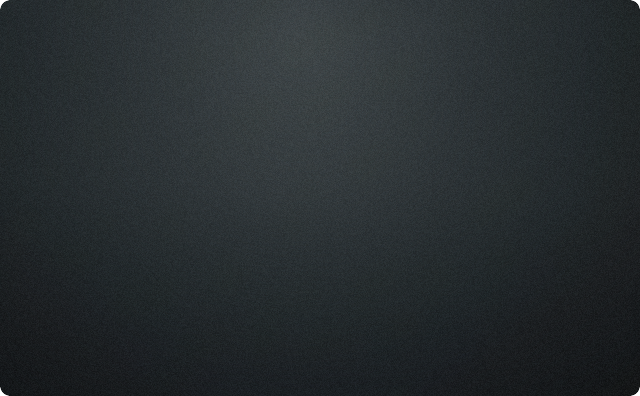
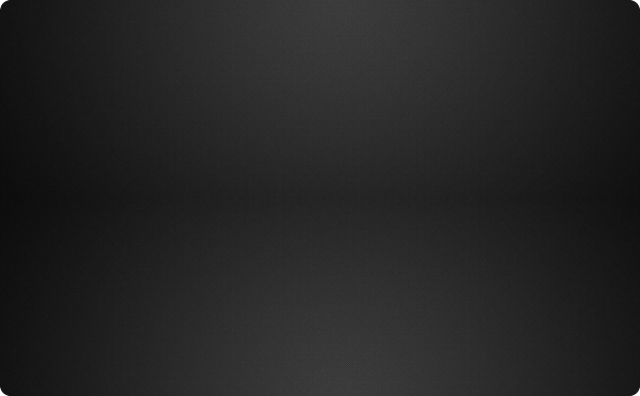
simplayer & rcalendar minor adjustment

diff --git a/simplayer/simplayer.c b/simplayer/simplayer.c
@@ -10,7 +10,7 @@
 #define TOOL_NAME               "Simple Music Player"
 #define TOOL_SHORT_NAME         "simplayer"
 #define TOOL_COMMENT            "Simple but modern currMusic player written in C99 using Raylib - Play MP3 and OGG file"
-#define TOOL_VERSION            "2.8.1"
+#define TOOL_VERSION            "2.8.3"
 
 #include <stdio.h>
 #include <raylib.h>
@@ -34,11 +34,11 @@
 #define screenHeight  396
 
 // some custom colors
-Color accentColor = SKYBLUE; // CLITERAL(Color){18, 211, 255, 255}; 
-Color primaryColor = CLITERAL(Color){253, 255, 255, 255}; 
-Color secondaryColor = CLITERAL(Color){156, 158, 158, 255};
-Color borderColor = CLITERAL(Color){50, 70, 70, 255};
-// Color bgColor = CLITERAL(Color){10, 20, 30, 248};
+const Color accentColor = SKYBLUE; // CLITERAL(Color){18, 211, 255, 255}; 
+const Color primaryColor = CLITERAL(Color){253, 255, 255, 255}; 
+const Color secondaryColor = CLITERAL(Color){156, 158, 158, 255};
+const Color borderColor = CLITERAL(Color){50, 70, 70, 255};
+const Color bgColor = CLITERAL(Color){10, 20, 30, 255};
 
 // faded songs (time in seconds)
 #define FADE_TIME 5.0f // Durata della dissolvenza in secondi
@@ -81,7 +81,7 @@ bool isStop = true;
 bool isPause = false;  
 bool isMute = false;
 bool isVumeter = true; // true:default : show 36 band equalizer , if set false show file library
-float currVolume = 0.80f;            // Default audio currVolume [0.0f..1.0f]
+float currVolume = 0.50f;            // Default audio currVolume [0.0f..1.0f]
 float prevVolume = 0.50f;
 char *currMusicDir;
 bool isVumColored = false; //false:default : start with monocrome vumeter / true: use colored vumeter
@@ -160,7 +160,7 @@ const float timeoutDuration = 2.0f;
 void drawRectangleRounded (int X, int Y, int W, int H, float radius, Color color)  {
 // raylib vuole il "roundness" espresso come frazione rispetto al lato più corto (300)
   Rectangle  rect = { X, Y, W, H};   // toplx, toply, width, height
-  int segments = 24;
+  int segments = 36;
   DrawRectangleRounded ( rect, radius, segments, color );
 }
 
@@ -446,8 +446,8 @@ int main (int argc, char *argv[])
 	SetConfigFlags(FLAG_VSYNC_HINT | FLAG_WINDOW_HIDDEN | FLAG_WINDOW_UNDECORATED | FLAG_WINDOW_ALWAYS_RUN | FLAG_WINDOW_TRANSPARENT ); // | FLAG_MSAA_4X_HINT | FLAG_WINDOW_TOPMOST); 
 	InitWindow(screenWidth, screenHeight, "simplayer");
 	SetExitKey(KEY_Q);       // Disable KEY_ESCAPE to close window, X-button still works
+    SetTargetFPS(120);
 
-	// Set UI style
 	// Custom GUI font loading
 	Font titleFnt = LoadFontEx("fonts/ManropeV5-SemiBold.otf", 36, NULL, 0);
 	Font artistFnt = LoadFontEx("fonts/ManropeV5-Regular.otf", 28, NULL, 0);
@@ -475,7 +475,7 @@ int main (int argc, char *argv[])
 	getMusicFolder();
 	int totalFiles = loadFilesRecursive(currMusicDir, files, 0);
 
-    // 2. Ordina o mescola files nella lista
+    // sort and shuffle music files 
     if (!isShuffle && totalFiles > 0) {
         qsort(files, totalFiles, MAX_NAME, compareFiles); 
     }
@@ -543,7 +543,6 @@ int main (int argc, char *argv[])
     const float transitionDuration = 10.00f; // Durata della transizione: 1.0f = 1 sec
 
 	// fai riapparire finestra dopo averla nascosta durante il carimento iniziale
-    // SetTargetFPS(60);
 	SetWindowSize(screenWidth,screenHeight);
 	SetWindowPosition(GetMonitorWidth(0) / 2 - screenWidth/2, GetMonitorHeight(0) / 2 - screenHeight/2);  
 	//SetWindowPosition(8,40);  
@@ -933,7 +932,7 @@ while (!WindowShouldClose())
 	BeginDrawing();
 		ClearBackground (BLANK);
 
-		//drawRectangleRounded(0,0,screenWidth,screenHeight,0.046f,bgColor);
+		//drawRectangleRounded(0,0,screenWidth,screenHeight,0.072f,bgColor);
 		//load player background image
 		DrawTexture(background, screenWidth/2 - background.width/2, screenHeight/2 - background.height/2, accentColor); // WHITE
 
@@ -989,7 +988,7 @@ while (!WindowShouldClose())
 						else barColor = darkenColor(accentColor,0.56f);
 						
 						// dimmed bar color
-						dimColor = BLANK; //(Color){ barColor.r / 2.4f, barColor.g / 2.4f, barColor.b / 2.4f, 255 };
+						dimColor = (Color){ barColor.r / 2.4f, barColor.g / 2.4f, barColor.b / 2.4f, 255 };
 
 						for (int j = 0; j < maxSegments; j++) {
 							float segYPos = baseYPos - (j * (segmentHeight + segmentGap)) - segmentHeight;
@@ -1079,8 +1078,8 @@ while (!WindowShouldClose())
 		DrawTextEx(defaultFnt,"SHUFFLE",(Vector2){xyFlags.x,xyFlags.y+355},(float)defaultFnt.baseSize,1, isShuffle ? WHITE : borderColor);
 
 		//statusbar with some info
-		DrawText(TextFormat("%s", TOOL_SHORT_NAME), 18, screenHeight-18, 10, secondaryColor); 
-		DrawText(TextFormat("version %s", TOOL_VERSION), 70,screenHeight-18, 10, borderColor); 
+		//DrawText(TextFormat("%s", TOOL_SHORT_NAME), 18, screenHeight-18, 10, secondaryColor); 
+		//DrawText(TextFormat("version %s", TOOL_VERSION), 70,screenHeight-18, 10, borderColor); 
 		//DrawText("[Q] exit program.",screenWidth-94, screenHeight-16,10,GRAY);
 
 	EndDrawing();

diff --git a/rcalendar/rcalendar.c b/rcalendar/rcalendar.c
@@ -54,7 +54,7 @@ void get_uptime (void) {
     snprintf(tmpBuffer, sizeof(tmpBuffer),"up %02ldh %02ldm", info.uptime / 3600, (info.uptime % 3600) / 60 );
 }
 
-void dec2bin(int x, int y, float size, int value, Color onColor,Color offColor) 
+void dec2bin(int x, int y, float radius, int value, Color onColor,Color offColor) 
 {
 	int bits[4] = { 0 }; //4bit
     // conversione di value (dec) to binario (bits[])
@@ -63,7 +63,7 @@ void dec2bin(int x, int y, float size, int value, Color onColor,Color offColor)
 		value /= 2;
 	}
     // disegna, in colonna, i 4 bit del numero passato come parametro (value= 0-9) 
-	for (int i = 3; i>=0 ; i--) DrawCircle(x,y-(i*size),size/3.0f,bits[i]?onColor:offColor);
+	for (int i = 3; i>=0 ; i--) DrawCircle(x,y-(i*radius),radius/3,bits[i]?onColor:offColor);
 }
 
 typedef struct {
@@ -174,7 +174,7 @@ int main (int argc, char *argv[])
 	SetExitKey(KEY_Q);       // Disable KEY_ESCAPE to close window, X-button still works
 
   Font textFnt = LoadFontEx("fonts/rmplayerdot.otf", 28, NULL, 0); 
-  Font nothOS = LoadFontEx("fonts/IosevkaFixedSS13-SemiBold.ttf", 72, NULL, 0); 
+  Font nothOS = LoadFontEx("fonts/IosevkaFixedSS13-SemiBold.ttf", 76, NULL, 0); 
   Font calFnt = LoadFontEx("fonts/PixelOperator.ttf", 16, NULL, 0); // all other text
 
     // dimensioni orologio
@@ -184,7 +184,7 @@ int main (int argc, char *argv[])
     // 0.0f quadrato / max dipende da dimensioni..fare delle prove!
     float cornerRadius = 14.0f; 
 
-    SetTargetFPS(10); // disegna 5 fps al secondo.. dovrebbe baastare visto che cmq tutto mi si aggiorna ogni secondo
+    SetTargetFPS(60); // disegna 5 fps al secondo.. dovrebbe baastare visto che cmq tutto mi si aggiorna ogni secondo
 
     // fai riapparire finestra dopo averla nascosta durante il carimento iniziale
     SetWindowSize(screenWidth,screenHeight);
@@ -271,7 +271,7 @@ while (!WindowShouldClose()) {
 		// format clock and centering horizontally
 		snprintf(tmpBuffer, sizeof(tmpBuffer),"%02i%02i", t->tm_hour, t->tm_min);
 		Vector2 timePos = MeasureTextEx(nothOS, tmpBuffer, nothOS.baseSize, 0);
-		DrawTextEx(nothOS, TextFormat("%s", tmpBuffer), (Vector2){(screenWidth - timePos.x)/2, 60}, nothOS.baseSize,0, accentColor);
+		DrawTextEx(nothOS, TextFormat("%s", tmpBuffer), (Vector2){(screenWidth - timePos.x)/2, 58}, nothOS.baseSize,0, accentColor);
 
 
 		// monthly calendar header and week number
@@ -307,13 +307,17 @@ while (!WindowShouldClose()) {
 		}
 
         //BDC clock
-        snprintf(tmpBuffer, sizeof(tmpBuffer),"%02i%02i%02i", t->tm_hour, t->tm_min,t->tm_sec); //ottieni stringa: 'HHMMSS'
-        float size = 18.0f;
-        int dist = 4;
-        startX=44;
+        startX=38;
         startY=360;
+        int size = 18;
+
         // disegna le 6 cifre in punti
-        for (int i = 0; tmpBuffer[i] != '\0';  i++) dec2bin(startX+(i*(size+dist)), startY, size, tmpBuffer[i], innerColor, outerColor);
+        snprintf(tmpBuffer, sizeof(tmpBuffer),"%02i%02i%02i", t->tm_hour, t->tm_min,t->tm_sec); //ottieni stringa: 'HHMMSS'
+        for (int i = 0; tmpBuffer[i] != '\0';  i++) {
+
+            if (i % 2 ==0 ) startX+=8;
+            dec2bin(startX+(i*size), startY, size, tmpBuffer[i], innerColor, outerColor);
+        }
 
 		// print uptime  horizontallly centered
 	    get_uptime();
